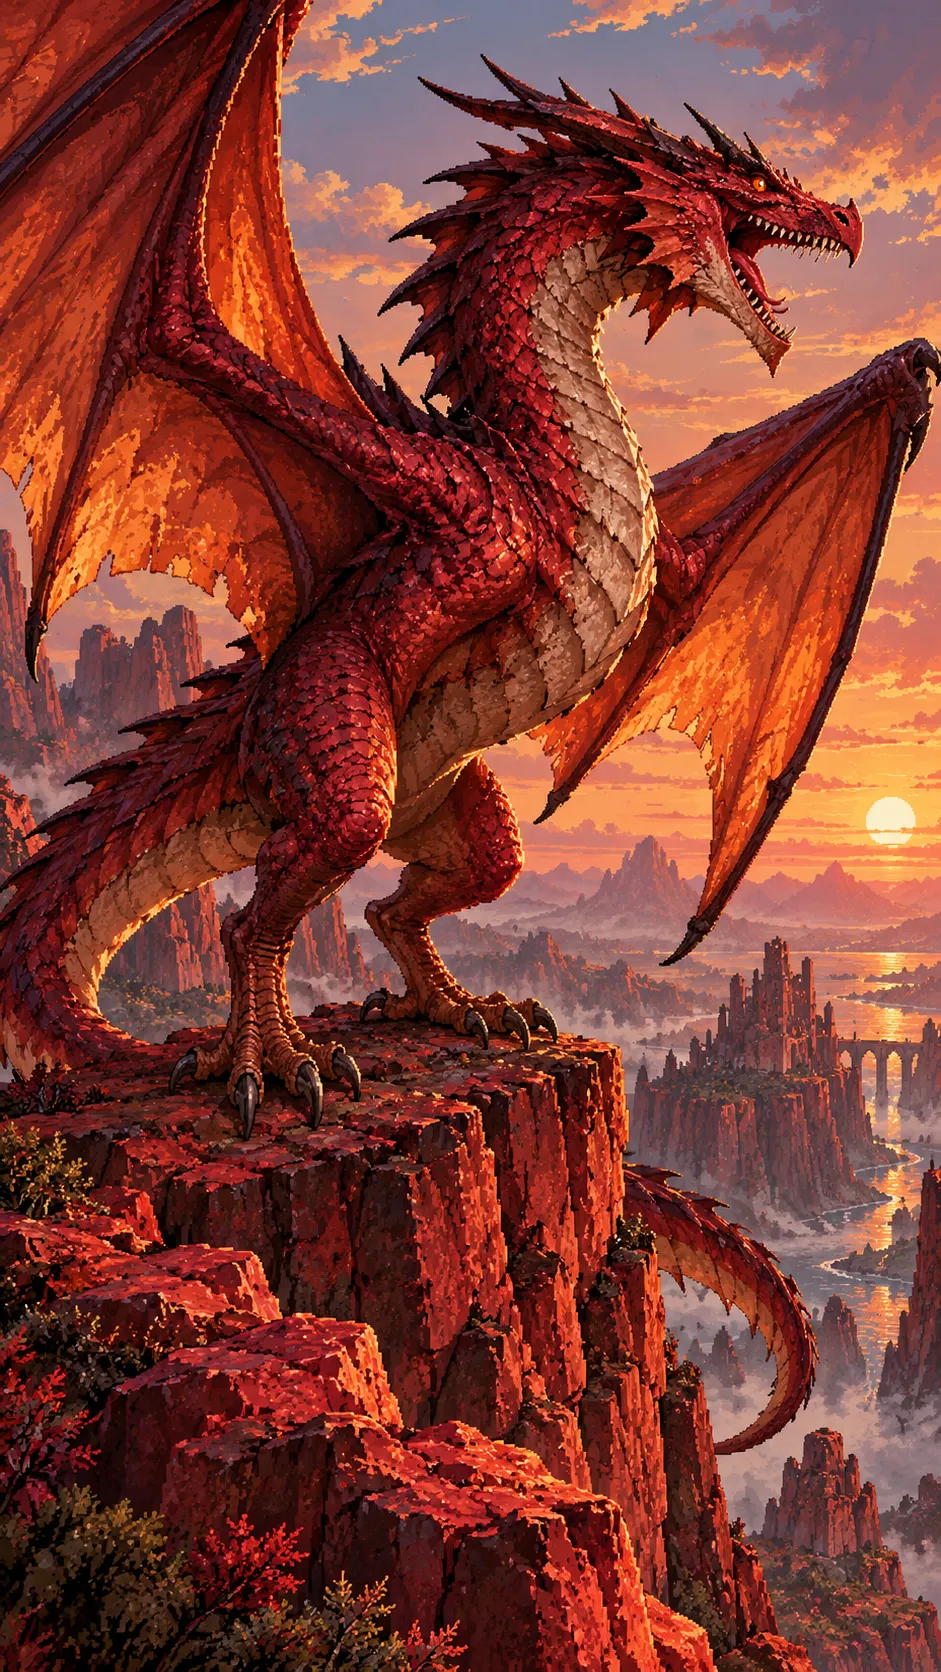
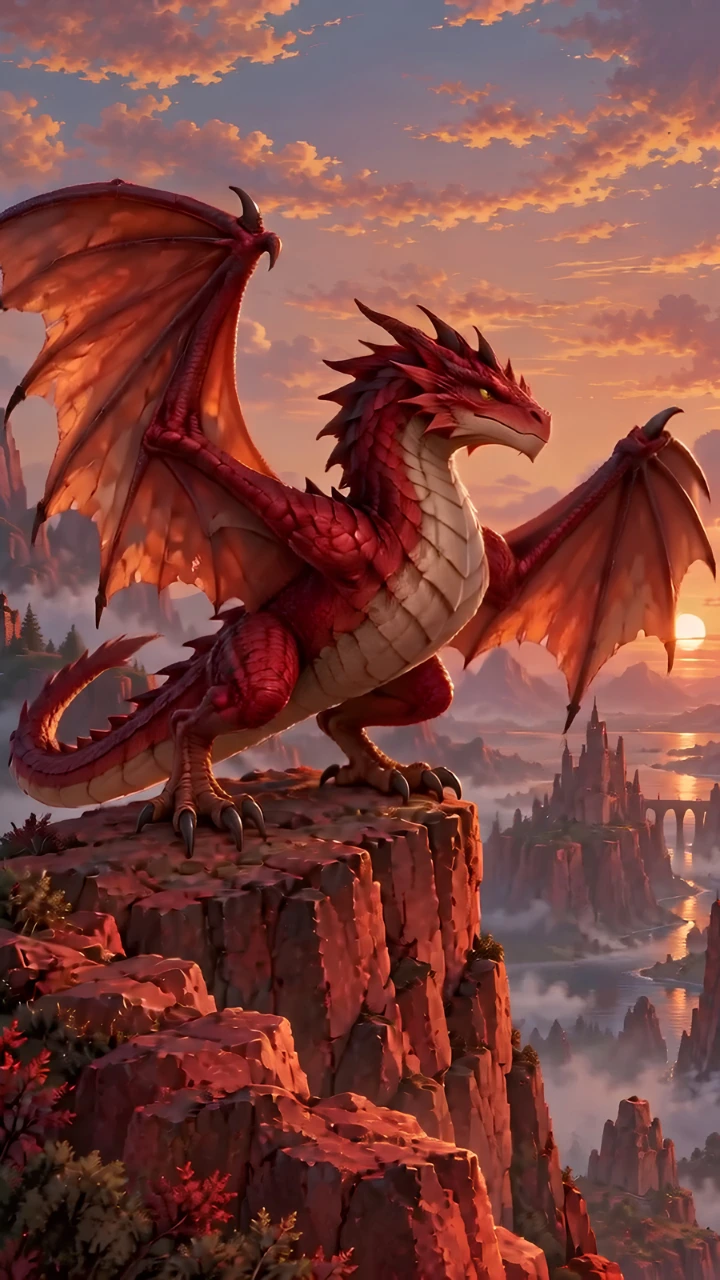
New variety pictures, extra Fellcat lines removed to match the PDF, post box address added (still switched off)
Claude-Session: https://claude.ai/code/session_019H8cm6nMqR18zN8jPhZ5bf

diff --git a/tools/beasthandler/data/profile-tables.js b/tools/beasthandler/data/profile-tables.js
@@ -238,11 +238,11 @@ window.TSI_DATA.beastProfile = {
         ]
       },
       regional: [
-        { id: 'mistveil', name: 'Mistveil', area: 'North Isle (Clan Karr)', where: 'The coast and fog banks of Bleaker\'s Bay', appearance: 'A thick silver coat with faint smoke-grey rosettes; tufted ears and oversized paws; pale grey-green eyes; fur that holds a damp sheen from the sea air. Camouflage: sea mist.' },
-        { id: 'whiteout', name: 'Whiteout', area: 'Icepoint', where: 'Icepoint', appearance: 'The palest and heaviest variety; an almost pure white coat with barely visible markings; the deepest fur, with fur-covered paw pads; a long, thick tail it wraps over its face when resting; ice-blue eyes. Camouflage: snow.' },
-        { id: 'lichenback', name: 'Lichenback', rollable: true, area: 'The northern highlands', where: 'The northern highlands', appearance: 'Leaner, built for rock rather than snow; a grey coat mottled grey-green like lichen, turning frost-white in winter; the longest ear tufts and a shorter tail; hard, scarred paw pads. Camouflage: frost-covered stone.' },
-        { id: 'tawnyfell', name: 'Tawnyfell', area: 'Midland Province (Clan Bacca)', where: 'The scree and lower slopes of The Fangs', appearance: 'A shorter coat, smoke-brown to tawny-grey; longer legs; hunts at dusk below the snowline. Camouflage: scree and twilight.' },
-        { id: 'smokecoat', name: 'Smokecoat', rollable: true, area: 'Western Province (Clan Farmer)', where: 'The high gorges of the Shadow Mountains', appearance: 'The smallest and rarest variety; a charcoal-grey coat with near-black rosettes; hunts at night. Camouflage: darkness and shadowed rock.' }
+        { id: 'mistveil', name: 'Mistveil', area: 'North Isle (Clan Karr)', where: 'The coast and fog banks of Bleaker\'s Bay', appearance: 'A thick silver coat with faint smoke-grey rosettes; tufted ears and oversized paws; pale grey-green eyes; fur that holds a damp sheen from the sea air.' },
+        { id: 'whiteout', name: 'Whiteout', area: 'Icepoint', where: 'Icepoint', appearance: 'The palest and heaviest variety; an almost pure white coat with barely visible markings; the deepest fur, with fur-covered paw pads; a long, thick tail it wraps over its face when resting; ice-blue eyes.' },
+        { id: 'lichenback', name: 'Lichenback', rollable: true, area: 'The northern highlands', where: 'The northern highlands', appearance: 'Leaner, built for rock rather than snow; a grey coat mottled grey-green like lichen, turning frost-white in winter; the longest ear tufts and a shorter tail; hard, scarred paw pads.' },
+        { id: 'tawnyfell', name: 'Tawnyfell', area: 'Midland Province (Clan Bacca)', where: 'The scree and lower slopes of The Fangs', appearance: 'A shorter coat, smoke-brown to tawny-grey; longer legs; hunts at dusk below the snowline.' },
+        { id: 'smokecoat', name: 'Smokecoat', rollable: true, area: 'Western Province (Clan Farmer)', where: 'The high gorges of the Shadow Mountains', appearance: 'The smallest and rarest variety; a charcoal-grey coat with near-black rosettes; hunts at night.' }
       ]
     }
   }

diff --git a/tests/rules/beasthandler-model.test.js b/tests/rules/beasthandler-model.test.js
@@ -53,7 +53,7 @@
     t.equal(M.artFor(T.beastArt, 'dire_wolf', 'blacktide').src, 'dire-wolf/blacktide.webp');
     t.equal(M.artFor(T.beastArt, 'buckbear', 'broadcrown').src, 'buckbear/broadcrown.webp');
     t.equal(M.artFor(T.beastArt, 'fellcat', 'lichenback').src, 'fellcat/lichenback.webp');
-    t.same(M.artFor(T.beastArt, 'buckbear', 'shovelhorn'), { src: '', label: 'Buckbear', alt: 'A buckbear' }, 'a variety with no picture shows the empty frame');
+    t.same(M.artFor(T.beastArt, 'buckbear', 'cragbuck'), { src: '', label: 'Buckbear', alt: 'A buckbear' }, 'a variety with no picture shows the empty frame');
     t.same(M.artFor(T.beastArt, 'fellcat', 'mistveil'), { src: '', label: 'Fellcat', alt: 'A fellcat' });
   });
 
@@ -83,7 +83,7 @@
 
   test('every Regional Variety has its own picture unless it is on the "pictures to come" list, and no picture belongs to an unknown variety', function (t) {
     /* Harry's 26 October 2026 varieties that have no picture file yet; the page shows the kind's plain picture for these. */
-    var TO_COME = { wyvern: ['flamescale', 'leafwing', 'razortail'], griffin: ['gloamquill', 'frostcrown', 'wrecktalon'], dire_wolf: ['sunmane'], buckbear: ['shovelhorn', 'cragbuck', 'fenwallow', 'saltcoat'], fellcat: ['mistveil', 'whiteout', 'tawnyfell', 'smokecoat'] };
+    var TO_COME = { wyvern: ['flamescale', 'razortail'], griffin: ['gloamquill', 'frostcrown', 'wrecktalon'], dire_wolf: ['sunmane'], buckbear: ['cragbuck', 'fenwallow', 'saltcoat'], fellcat: ['mistveil', 'whiteout', 'tawnyfell'] };
     Object.keys(TO_COME).forEach(function (sp) {
       var ids = T.beastProfile.species[sp].regional.map(function (r) { return r.id; }).sort();
       var pics = Object.keys(T.beastArt.species[sp].variants).sort();

diff --git a/tests/rules/beasthandler-linking.test.js b/tests/rules/beasthandler-linking.test.js
@@ -279,7 +279,7 @@
   });
 
   test('the online link\'s settings ship empty, and an address must be a Firebase database address (or the made-up test one)', function (t) {
-    t.same(window.TSI_DATA.beastRelay, { enabled: false, databaseURL: '' }, 'relay-config.js ships switched off and empty: enabled false, no address and nothing else');
+    t.same(window.TSI_DATA.beastRelay, { enabled: false, databaseURL: 'https://scarlett-isles-link-default-rtdb.europe-west1.firebasedatabase.app' }, 'relay-config.js ships switched off and empty: enabled false, no address and nothing else');
     t.equal(L.enabled(), false);
     t.equal(L.configuredUrl(), '', 'so the link is not set up');
     t.same(L.cleanDatabaseUrl('https://scarlett-isles-link-default-rtdb.firebaseio.com'), { ok: true, url: 'https://scarlett-isles-link-default-rtdb.firebaseio.com' });
@@ -326,7 +326,7 @@
       t.equal(L.enabled(), false);
       t.equal(L.configuredUrl(), '');
     } finally { window.TSI_DATA.beastRelay = was; }
-    t.same(window.TSI_DATA.beastRelay, { enabled: false, databaseURL: '' }, 'and it is put back as shipped');
+    t.same(window.TSI_DATA.beastRelay, { enabled: false, databaseURL: 'https://scarlett-isles-link-default-rtdb.europe-west1.firebasedatabase.app' }, 'and it is put back as shipped');
   });
 
   test('the QR link carries no online flag: it is the address and the four-part pairing only, whatever the online link\'s switches say', function (t) {

diff --git a/tools/beasthandler/data/art-map.js b/tools/beasthandler/data/art-map.js
@@ -23,6 +23,7 @@ window.TSI_DATA.beastArt = {
         widowspine: { src: 'wyvern/widowspine.webp' },
         bleakhook: { src: 'wyvern/bleakhook.webp' },
         ironcrown: { src: 'wyvern/ironcrown.webp' },
+        leafwing: { src: 'wyvern/leafwing.webp' },
         bloodcrest: { src: 'wyvern/bloodcrest.webp' },
         shadowmount: { src: 'wyvern/shadowmount.webp' }
       }
@@ -54,13 +55,15 @@ window.TSI_DATA.beastArt = {
     buckbear: {
       label: 'Buckbear', alt: 'A buckbear', default: { src: '' },
       variants: {
-        broadcrown: { src: 'buckbear/broadcrown.webp' }
+        broadcrown: { src: 'buckbear/broadcrown.webp' },
+        shovelhorn: { src: 'buckbear/shovelhorn.webp' }
       }
     },
     fellcat: {
       label: 'Fellcat', alt: 'A fellcat', default: { src: '' },
       variants: {
-        lichenback: { src: 'fellcat/lichenback.webp' }
+        lichenback: { src: 'fellcat/lichenback.webp' },
+        smokecoat: { src: 'fellcat/smokecoat.webp' }
       }
     }
   }

diff --git a/tests/rules/beasthandler-relay.test.js b/tests/rules/beasthandler-relay.test.js
@@ -279,12 +279,12 @@
       var w = setup();
       /* 1. Settings empty, switch off. */
       return w.pub.tick().then(function (st) {
-        t.equal(st.state, 'unset');
+        t.equal(st.state, 'notenabled');
         /* 2. Switch ON but settings empty: still nothing. */
         BR.setBeastOnlineLink(w.b, true);
         return w.pub.tick();
       }).then(function (st) {
-        t.equal(st.state, 'unset', 'a switch with no address does nothing');
+        t.equal(st.state, 'notenabled', 'the laptop switch alone does nothing while relay-config.js says enabled: false');
         BR.setBeastOnlineLink(w.b, false);
         /* 3. Settings filled, switch off: still nothing. */
         return withConfig(TEST_URL, function () { return w.pub.tick(); });

diff --git a/tests/rules/beasthandler-tables.test.js b/tests/rules/beasthandler-tables.test.js
@@ -80,7 +80,6 @@
     t.equal(area('fellcat', 'Whiteout').area, 'Icepoint');
     t.equal(area('fellcat', 'Tawnyfell').where, 'The scree and lower slopes of The Fangs');
     t.equal(area('fellcat', 'Smokecoat').area, 'Western Province (Clan Farmer)');
-    t.ok(/Camouflage: sea mist\.$/.test(area('fellcat', 'Mistveil').appearance), 'a Fellcat\'s camouflage is kept');
     t.equal(area('griffin', 'Embermantle').where, 'Redport and the western coastal cliffs');
     t.ok(/^Dark slate-to-blue-black scales, pale stone-grey breast/.test(area('wyvern', 'Widowspine').appearance));
     t.ok(/pale amber to moss-green eyes\.$/.test(area('dire_wolf', 'Nightfang').appearance));

diff --git a/tools/beasthandler/relay-config.js b/tools/beasthandler/relay-config.js
@@ -43,5 +43,5 @@
 window.TSI_DATA = window.TSI_DATA || {};
 window.TSI_DATA.beastRelay = {
   enabled: false,
-  databaseURL: ''
+  databaseURL: 'https://scarlett-isles-link-default-rtdb.europe-west1.firebasedatabase.app'
 };

diff --git a/docs/KNOWN_ISSUES.md b/docs/KNOWN_ISSUES.md
@@ -4099,3 +4099,10 @@ These entries come from each step's draft in `docs/strip-back/*-known-issues-dra
 **Left alone** · test gaps
 
 - The real Google Firebase console and every step of `docs/ONLINE-LINK-SETUP.md` marked so; a real database accepting requests from a double-clicked file and from the GitHub Pages address (CORS); a real phone camera (including iPhone Safari and Home Screen behaviour); GitHub Pages serving the new phone page (the QR code points at the address in the Phone page address box, which is only right once this is merged and Pages publishes `main`); Firefox (WebCrypto and `history.replaceState` from a file). Edge itself was not run; Chromium was.
+
+### BAS-SB-82 · New variety pictures, the Camouflage lines removed, and the post box's address added (26 October 2026)
+**Changed, Harry's request** · content
+
+- **Pictures:** Harry's new Leafwing, Ironcrown, Bloodcrest (wyverns), Shovelhorn (Buckbear) and Smokecoat (Fellcat) are in `tools/beasthandler/assets/`. The old Ironcrown and Bloodcrest pictures are kept in `assets/extras/wyvern-previous/`. A variety with no picture yet still shows the plain frame.
+- **Text:** the "Camouflage: …" lines at the end of the Fellcat descriptions are removed so the tables match Harry's PDF exactly.
+- **Online link:** the post box's web address is in `tools/beasthandler/relay-config.js`, but `enabled` stays `false` until Harry approves the change to ground rule 2 of CLAUDE.md (docs/ONLINE-LINK-SETUP.md, Step 5). `CLAUDE.md` is not edited. With `enabled: false` nothing goes online.

diff --git a/docs/ASSETS.md b/docs/ASSETS.md
@@ -538,3 +538,13 @@ Nothing deleted. Five pictures no longer used moved with `git mv` (byte-for-byte
 | `tools/bastion/assets/ui/wax_stamp.png` | `tools/bastion/assets/extras/ui/wax_stamp.png` |
 | `tools/bastion/assets/map/overlays/griffin_tower.png` | `tools/bastion/assets/extras/map/overlays/griffin_tower.png` |
 | `tools/bastion/assets/map/overlays/dire_wolf_den.png` | `tools/bastion/assets/extras/map/overlays/dire_wolf_den.png` |
+
+## Variety pictures added 26 October 2026
+
+| New file | Subspecies |
+|---|---|
+| `tools/beasthandler/assets/wyvern/leafwing.webp` | Leafwing (new) |
+| `tools/beasthandler/assets/wyvern/ironcrown.webp` | Ironcrown (replaces the old one, kept at `assets/extras/wyvern-previous/ironcrown-old.webp`) |
+| `tools/beasthandler/assets/wyvern/bloodcrest.webp` | Bloodcrest (replaces the old one, kept at `assets/extras/wyvern-previous/bloodcrest-old.webp`) |
+| `tools/beasthandler/assets/buckbear/shovelhorn.webp` | Shovelhorn (new) |
+| `tools/beasthandler/assets/fellcat/smokecoat.webp` | Smokecoat (new) |
